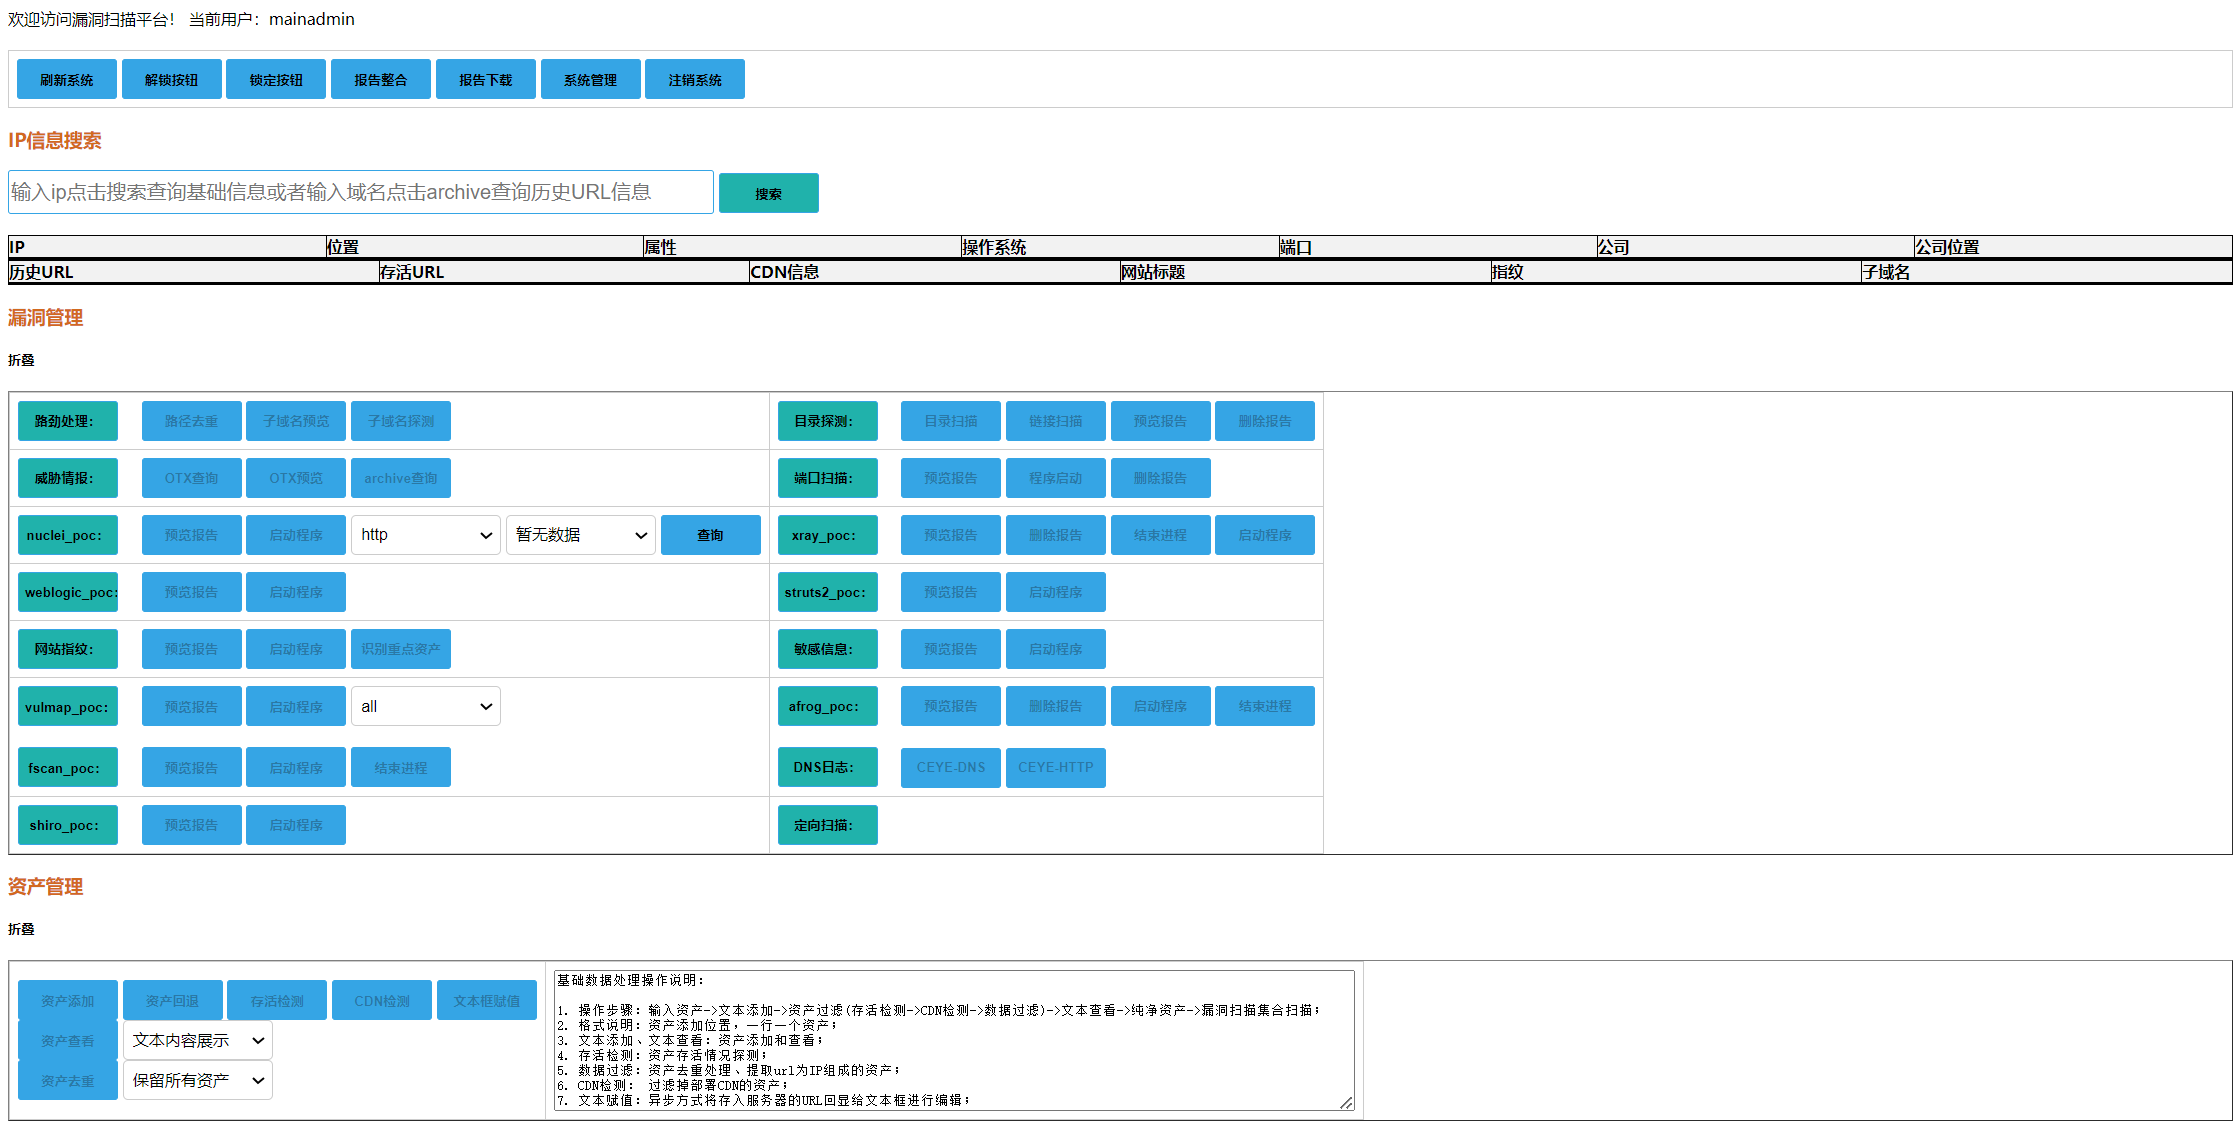
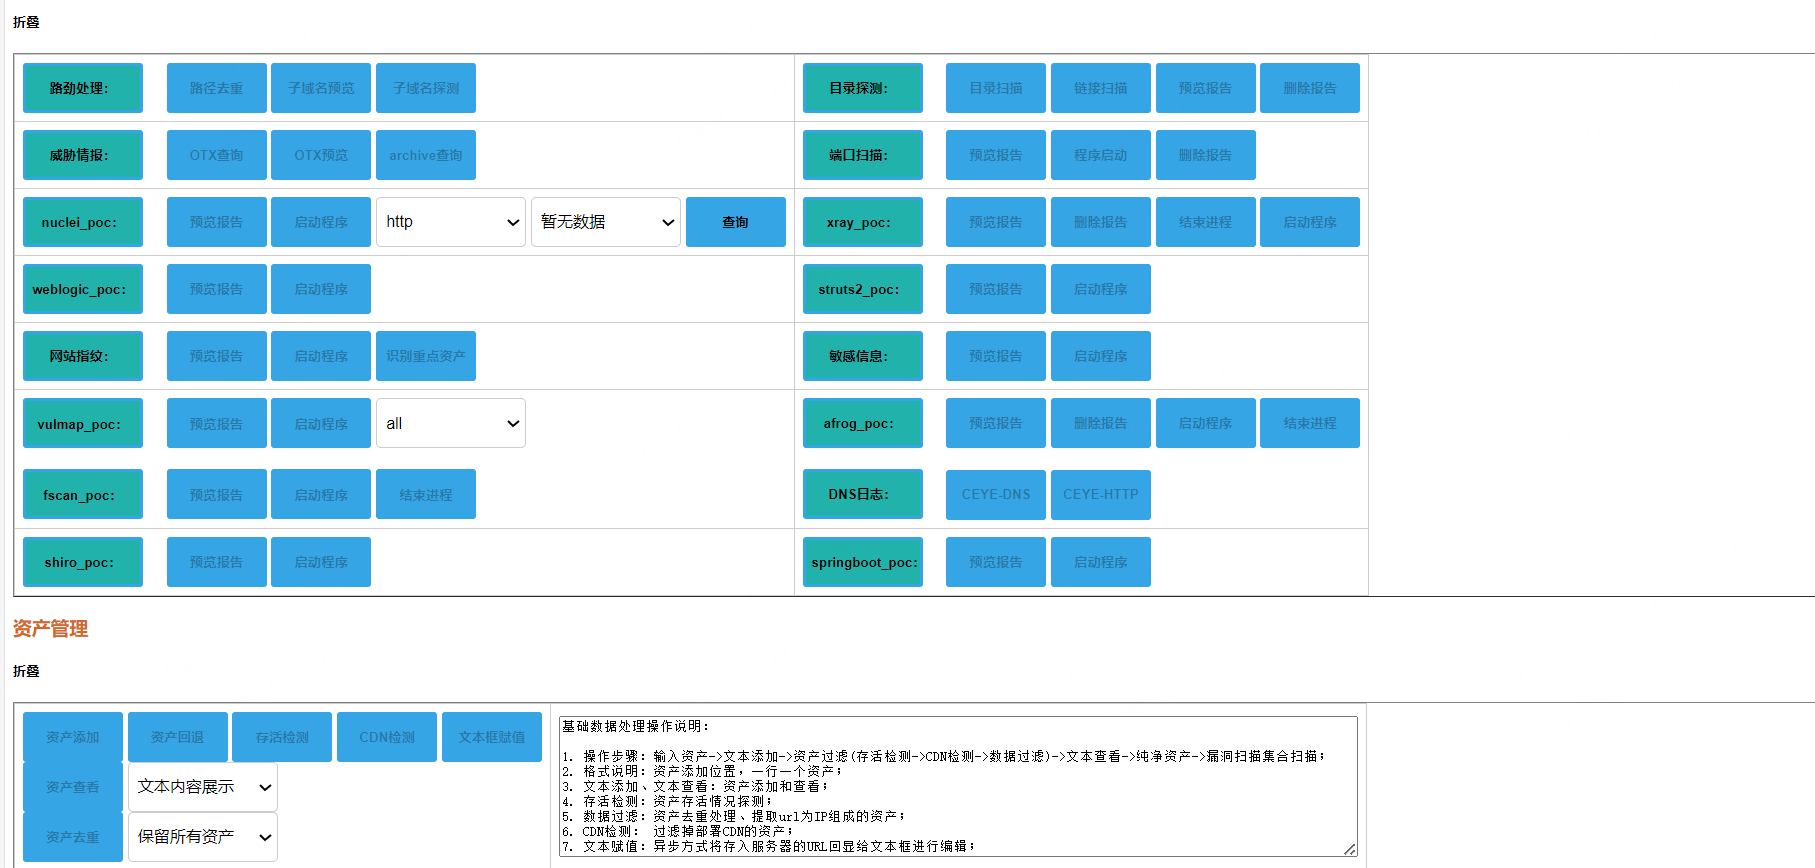
springboot漏洞扫描优化

diff --git a/static/js/common.js b/static/js/common.js
@@ -362,6 +362,12 @@ function startbutton() {
     button50.disabled = false;
     var button51 = document.getElementById("button51");
     button51.disabled = false;
+    var button52 = document.getElementById("button52");
+    button52.disabled = false;
+    var button53 = document.getElementById("button53");
+    button53.disabled = false;
+
+
 
 }
 
@@ -463,6 +469,10 @@ function stopbutton() {
     button50.disabled = true;
     var button51 = document.getElementById("button51");
     button51.disabled = true;
+    var button52 = document.getElementById("button52");
+    button52.disabled = true;
+    var button53 = document.getElementById("button53");
+    button53.disabled = true;
 
 }
 
@@ -1058,6 +1068,7 @@ function openModal() {
         document.getElementById("spp25").innerHTML = info.jboss_num;
         document.getElementById("spp26").innerHTML = info.key_asset_rule;
         document.getElementById("spp27").innerHTML = info.current_key_asset_num;
+        document.getElementById("spp28").innerHTML = info.springbootstatus;
     })
 
 }  

diff --git a/templates/index.html b/templates/index.html
@@ -48,6 +48,7 @@
 			<span id="spp11"></span><br>
 			<span id="spp12"></span><br>
 			<span id="spp15"></span><br>
+			<span id="spp28"></span><br>
 			<span id="spp13"></span><br><br>
 			<strong style="color:coral">总资产数量</strong><br>
 			<span id="spp14"></span><br><br>
@@ -362,8 +363,8 @@
 			</td>
 			<td>
 				<input type="submit"  value="springboot_poc：">&nbsp;&nbsp;&nbsp;&nbsp;
-				<input type="button"  value="预览报告" onclick="springboot_report_show_func()">
-				<input type="button"  value="启动程序" onclick="start_springboot_scan_func()">
+				<input type="button"  id="button52" value="预览报告" onclick="springboot_report_show_func()" disabled>
+				<input type="button"  id="button53" value="启动程序" onclick="start_springboot_scan_func()" disabled>
 			</td>
 		</tr>
 	</table>

diff --git a/scan_main_web.py b/scan_main_web.py
@@ -347,6 +347,7 @@ def systemmanagement():
         shirostatus = os.popen('bash ./finger.sh shiro_status').read()
         httpxstatus = os.popen('bash ./finger.sh httpx_status').read()
         eholestatus = os.popen('bash ./finger.sh ehole_status').read()
+        springbootstatus = os.popen('bash ./finger.sh springboot_scan_status').read()
 
         # 目标url行数
         url_file_num = os.popen('bash ./finger.sh url_file_num').read()
@@ -403,7 +404,8 @@ def systemmanagement():
             "memoryinfo":"内存: "+str(memory_percent),
             "jboss_num":"jboss: "+str(jboss_num),
             "key_asset_rule":"资产规则: "+str(key_asset_rule),
-            "current_key_asset_num":"资产数量: "+str(url_file_current_num)
+            "current_key_asset_num":"资产数量: "+str(url_file_current_num),
+            "springbootstatus":springbootstatus
         }
         return jsonify(message_json)
     else:
@@ -1154,6 +1156,7 @@ def nuclei_poc_show_ajax():
 def springboot_report_show():
     user = session.get('username')
     if str(user) == main_username:
+        os.popen('rm -rf /TIP/info_scan/result.txt')
         lines = []
         with open('./result/springboot_result.txt', 'r') as f:
             for line in f:

diff --git a/readme.md b/readme.md
@@ -68,9 +68,8 @@ CDN信息: shell脚本nslookup<br>
 指纹: tiderfinger、EHole<br>
 子域名：crt证书<br>
 rad+xray批量：batch_scan_domain<br>
-漏洞扫描工具：nuclei、xray、rad、dirsearch、urlfinder、WeblogicScan、Struts2-Scan、vulmap、afrog、fscan、shiro-exploit<br>
+漏洞扫描工具：nuclei、xray、rad、dirsearch、urlfinder、WeblogicScan、Struts2-Scan、vulmap、afrog、fscan、shiro-exploit、ssp_linux_amd64<br>
 DNS平台：ceye<br>
 敏感信息：BBScan<br>
 威胁情报平台：otx、archive<br>
 识别重点资产：自定义关键字列表，与EHole识别结果进行匹配<br>
-
